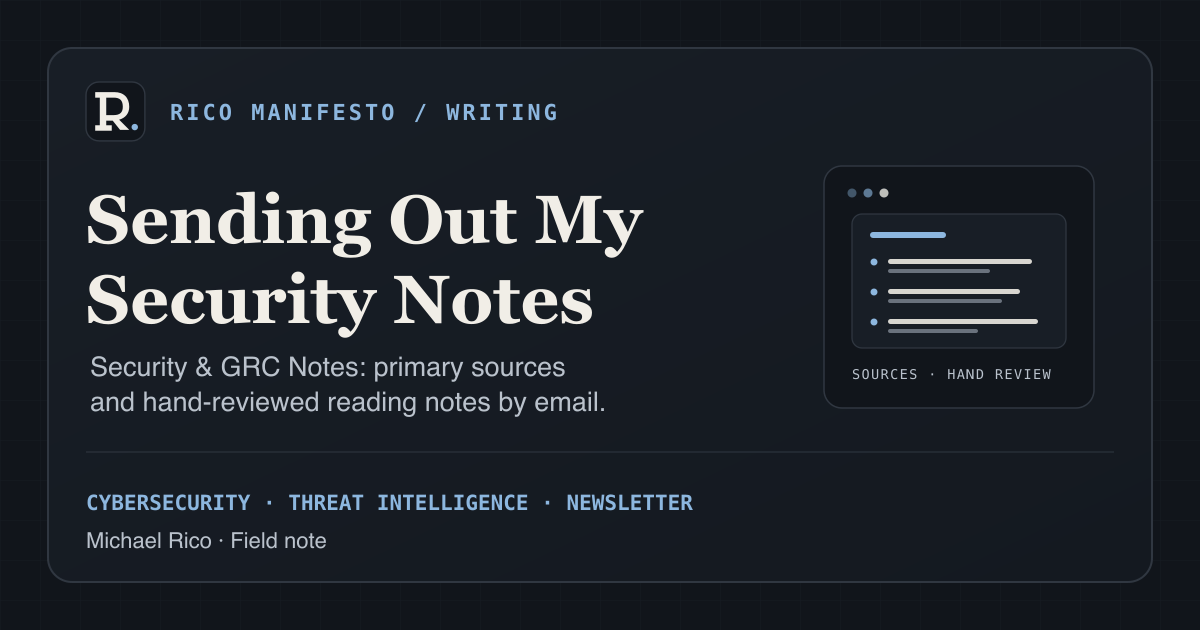
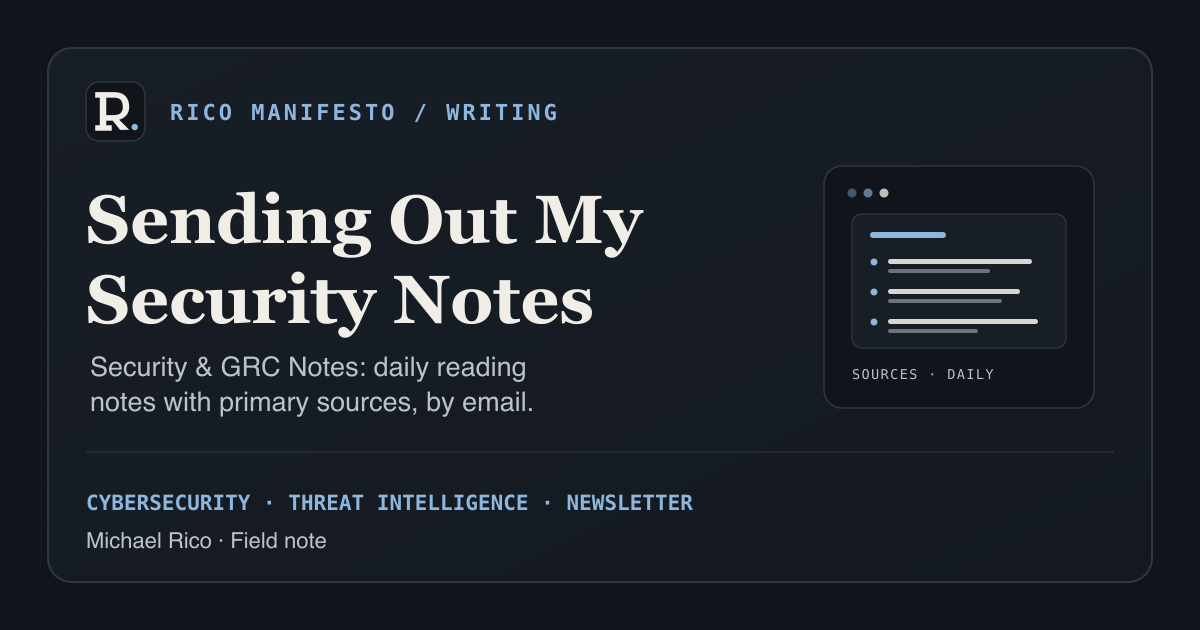
Describe the newsletter as a daily automated digest
The newsletter now assembles and sends an issue on its own most
evenings, so the announcement, its card and the pinned build check
say that instead of describing a weekly hand-reviewed issue.

Changed region(s): [[0.0617, 0.573, 0.4933, 0.6635], [0.8017, 0.573, 0.8942, 0.6032]]

diff --git a/src/content/writing/sending-out-my-security-notes.md b/src/content/writing/sending-out-my-security-notes.md
@@ -1,6 +1,6 @@
 ---
 title: Sending Out My Security Notes
-description: I turned my security and GRC reading notes into Security & GRC Notes, a small, free email newsletter reviewed by hand against primary sources.
+description: I turned the daily output of my security and GRC tools into Security & GRC Notes, a small, free email newsletter with links to the primary sources.
 publishedAt: 2026-11-30
 topics:
   - Cybersecurity
@@ -15,18 +15,18 @@ draft: false
 
 A lot of the tools on this site started the same way: I wanted a calmer way to keep up with security news without spending my mornings scrolling feeds and trying to remember which advisory actually mattered.
 
-Over the last few months, [SentryInsight](https://sentryinsight.ricomanifesto.com/) and [GRCInsight](https://grcinsight.ricomanifesto.com/) have been collecting the raw pieces—actively exploited vulnerabilities, notable threat activity, and the governance or regulatory shifts that end up landing on security teams anyway. For a while I was just rolling those notes up into a short digest for myself.
+Over the last few months, [SentryInsight](https://sentryinsight.ricomanifesto.com/) and [GRCInsight](https://grcinsight.ricomanifesto.com/) have been collecting the raw pieces—actively exploited vulnerabilities, notable threat activity, and the governance or regulatory shifts that end up landing on security teams anyway. For a while I was just rolling their output up into a short daily digest for myself.
 
 I’ve decided to share it for free as a small email newsletter called **Security & GRC Notes**.
 
-It isn’t a breaking-news wire and it isn’t a vendor roundup. Each issue covers a handful of security and GRC developments that seem worth paying attention to, with a short summary, what is still open or uncertain, and direct links to the primary sources behind each item. If a claim rests only on a short excerpt or an early report, the issue says so plainly. At launch it goes out by email only, without a public web archive.
+It isn’t a breaking-news wire and it isn’t a vendor roundup. Each issue covers a handful of new security and GRC developments, with a short summary, what is still open or uncertain, and direct links to the primary sources behind each item. At launch it goes out by email only, without a public web archive.
 
-Here is how it is put together: automated gathering pulls candidate items from monitored feeds and organizes the source links, and then I review, edit, verify against the primary sources, and approve every issue by hand before anything is sent. Nothing goes out on a timer without that review pass first.
+Here is how it is put together: SentryInsight and GRCInsight gather and summarize items from the feeds they monitor, and each evening the newsletter picks up what is new, drops anything it has already sent, and assembles the issue automatically. I don’t review each issue by hand before it goes out, so treat the summaries as a starting point and the linked sources as the record.
 
-The cadence is roughly weekly. If it is a quiet week—or if I haven’t had time to review an issue properly—I’ll skip a week rather than pad an email with filler.
+It arrives most days. If nothing new turned up, there is no email that day rather than one padded with filler.
 
 There is no account to create. Only your email address, whether you are subscribed, and basic delivery status like a bounce are stored. I don’t use open-tracking pixels or click tracking, and I don’t share or sell the list. You confirm your address once before receiving anything, and every email lets you leave in one click.
 
 If that sounds useful, you can subscribe at [newsletter.ricomanifesto.com](https://newsletter.ricomanifesto.com/).
 
-If you read an issue and spot something I missed or got wrong, just reply to it; replies come straight to me. Keeping this small and hand-reviewed is the whole point, so it stays grounded in primary evidence and useful to people doing the work.
+If you read an issue and spot something I missed or got wrong, just reply to it; replies come straight to me. Corrections like that are how the tools behind it get better, and keeping it small is what keeps it useful to people doing the work.
